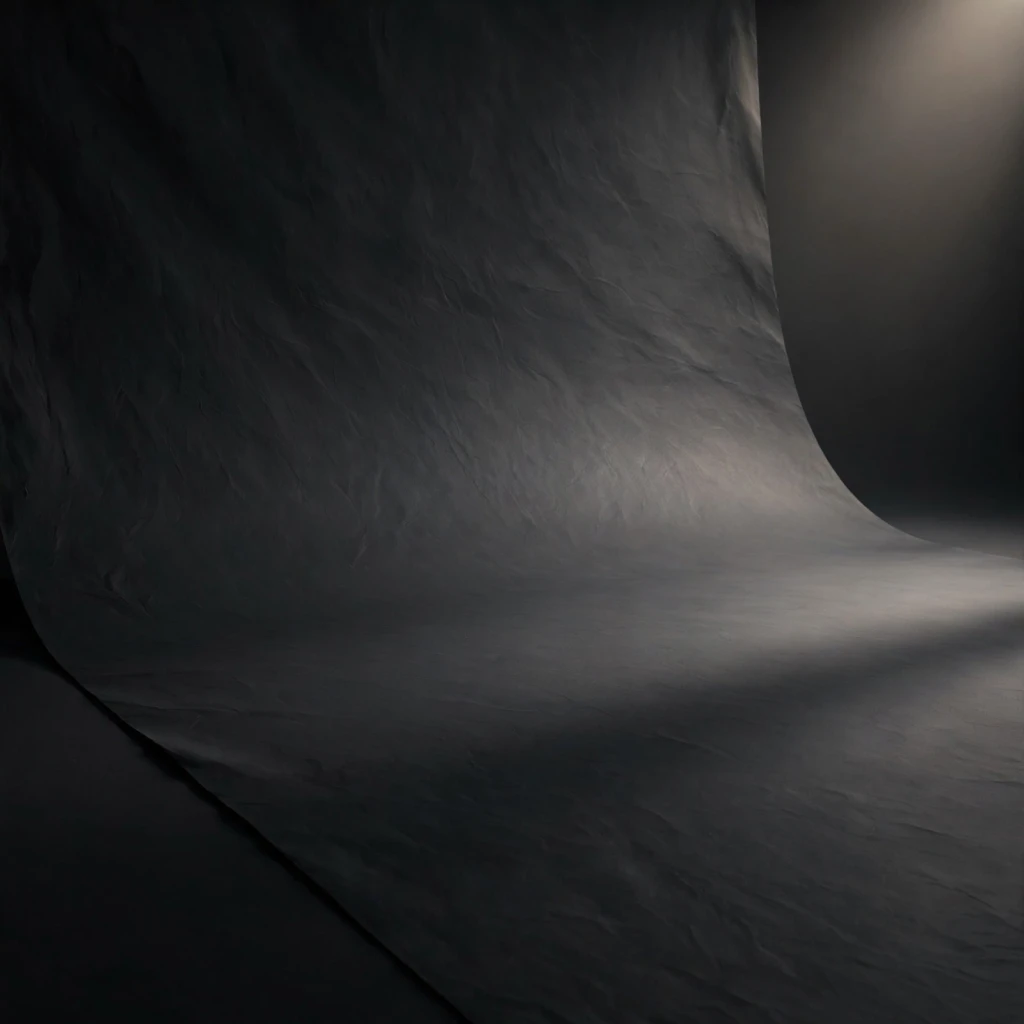
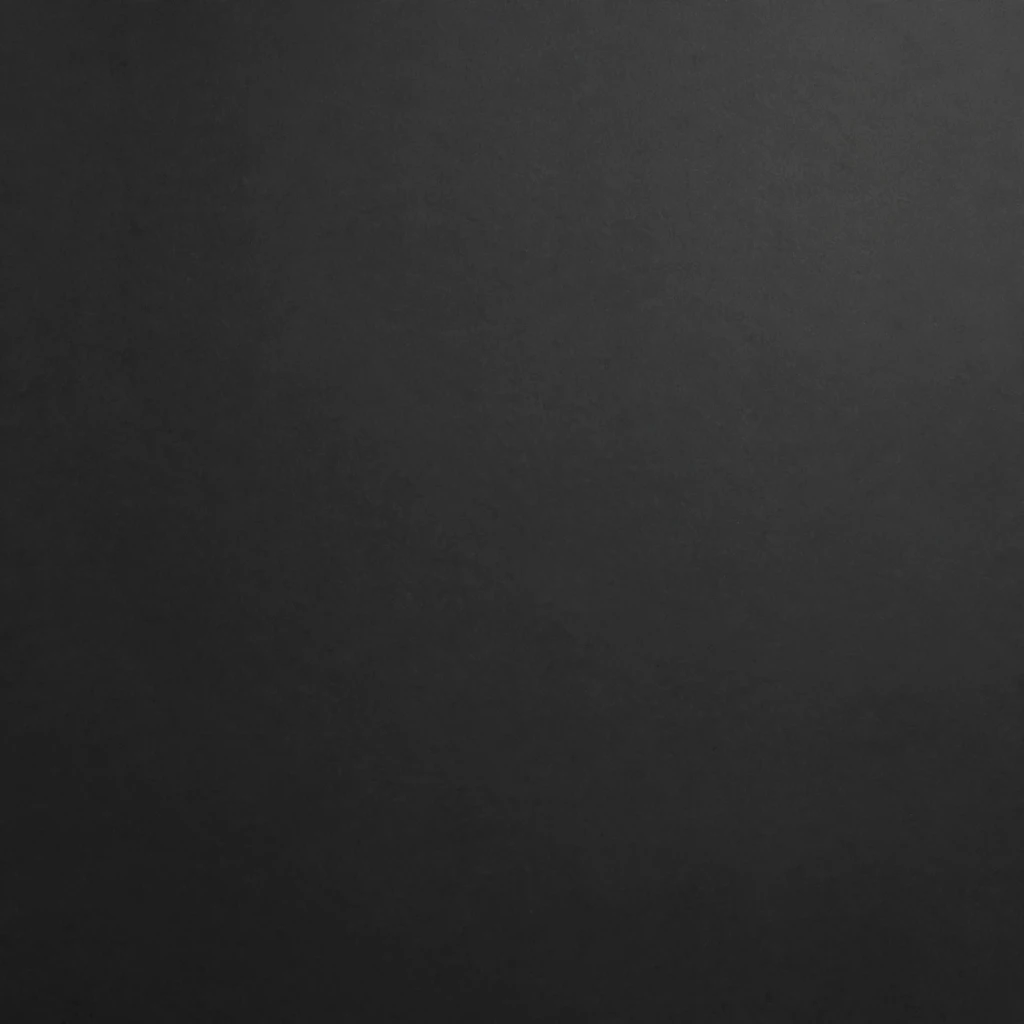
feat: refine the scene presets for clean backdrops and wall scenes
Make the four studio backdrops straight-on, flat and shadow-free; replace
the linen bed with a packaged sheet set with a blank logo area; add three
backyard wall facades for hanging products without a lamp. The scene pack and
catalog are now 33 entries across six categories.

Generated and reviewed 9 scene images through the lab ($0.09). Verified:
typecheck, eslint, library-data unit tests, scenes/scene-reference E2E, and
the serial journey (11/11) with refreshed Scenes screenshots.

diff --git a/src/shared/scene-presets.ts b/src/shared/scene-presets.ts
@@ -21,9 +21,10 @@ export const BUNDLED_SCENE_CATEGORIES: readonly string[] = [
 ]
 
 /**
- * Clean, product-free scene photos included with Moss as starting points: 30
- * settings across six categories. A scene supplies the setting, light and props
- * for another image; its subject is never copied. The matching generation
+ * Clean scene photos included with Moss as starting points: 33 settings across
+ * six categories. Most are product-free; the packaged sheet set is a product
+ * mock-up with a blank label area. A scene supplies the setting, light and
+ * props for another image; its subject is never copied. The matching generation
  * prompts live in scripts/lab/scene-pack.mjs; keep ids, names and categories in
  * sync with it (the unit test checks that). The images are
  * resources/scenes/<id>.webp with a 480x480 <id>-thumb.webp.
@@ -33,25 +34,25 @@ export const BUNDLED_SCENE_PRESETS: readonly BundledScenePreset[] = [
     id: 'white-seamless',
     name: 'White seamless studio',
     category: 'Studio backdrops',
-    blurb: 'A bright white sweep for any product.'
+    blurb: 'A flat white backdrop for any product.'
   },
   {
     id: 'warm-grey-sweep',
     name: 'Warm grey studio',
     category: 'Studio backdrops',
-    blurb: 'A soft warm-grey backdrop for neutral products.'
+    blurb: 'A flat warm-grey backdrop for neutral products.'
   },
   {
     id: 'blush-paper',
     name: 'Blush paper backdrop',
     category: 'Studio backdrops',
-    blurb: 'Pale blush paper for beauty and gifts.'
+    blurb: 'A flat blush backdrop for beauty and gifts.'
   },
   {
     id: 'charcoal-sweep',
     name: 'Charcoal studio',
     category: 'Studio backdrops',
-    blurb: 'Deep charcoal for jewelry, glassware and premium packaging.'
+    blurb: 'A flat charcoal backdrop for jewelry and glassware.'
   },
   {
     id: 'stone-plinth',
@@ -66,10 +67,10 @@ export const BUNDLED_SCENE_PRESETS: readonly BundledScenePreset[] = [
     blurb: 'Warm wood, a lamp and soft window light for homeware and candles.'
   },
   {
-    id: 'linen-bed',
-    name: 'Linen bed',
+    id: 'packaged-sheet-set',
+    name: 'Packaged sheet set',
     category: 'Lifestyle rooms',
-    blurb: 'Rumpled linen and morning light for textiles and gifts.'
+    blurb: 'A folded sheet set in a clear case with a blank label for a logo.'
   },
   {
     id: 'living-room-console',
@@ -178,6 +179,24 @@ export const BUNDLED_SCENE_PRESETS: readonly BundledScenePreset[] = [
     name: 'Sunlit balcony',
     category: 'Outdoor spaces',
     blurb: 'A morning balcony for drinkware, plants and small homeware.'
+  },
+  {
+    id: 'backyard-wall',
+    name: 'Backyard wall',
+    category: 'Outdoor spaces',
+    blurb: 'A sunlit side wall for a hanging lamp or planter.'
+  },
+  {
+    id: 'garden-wall',
+    name: 'Garden wall',
+    category: 'Outdoor spaces',
+    blurb: 'A stone garden wall with an empty bracket space.'
+  },
+  {
+    id: 'brick-wall-nook',
+    name: 'Brick wall nook',
+    category: 'Outdoor spaces',
+    blurb: 'A warm brick wall for an outdoor lamp.'
   },
   {
     id: 'gift-wrapping-table',

diff --git a/tests/e2e/scenes.spec.ts b/tests/e2e/scenes.spec.ts
@@ -45,11 +45,15 @@ test('a preset scene opens the generator and is sent with the product', async ()
 
     await page.getByRole('link', { name: 'Scenes', exact: true }).click()
     await expect(page.getByRole('heading', { name: 'Scenes', exact: true })).toBeVisible()
-    await expect(page.getByText('30 starter scenes · 0 of yours')).toBeVisible()
+    await expect(page.getByText('33 starter scenes · 0 of yours')).toBeVisible()
     await assertNoSeriousA11y(page, 'scenes')
     await page.getByRole('button', { name: 'Lifestyle rooms', exact: true }).click()
     await expect(page.getByRole('button', { name: 'Open Oak side table' })).toBeVisible()
     await expect(page.getByRole('button', { name: 'Open White seamless studio' })).toHaveCount(0)
+    await page.getByRole('button', { name: 'Outdoor spaces', exact: true }).click()
+    await expect(page.getByRole('button', { name: 'Open Backyard wall' })).toBeVisible()
+    await expect(page.getByRole('button', { name: 'Open Garden wall' })).toBeVisible()
+    await expect(page.getByRole('button', { name: 'Open Brick wall nook' })).toBeVisible()
     await page.getByRole('button', { name: 'All', exact: true }).click()
     await expect(page.getByRole('button', { name: 'Open White seamless studio' })).toBeVisible()
 
@@ -118,7 +122,7 @@ test('the scene picker has three tabs and a saved scene can be renamed and delet
     await expect(page.getByText('Sunlit home', { exact: true }).first()).toBeVisible()
 
     await page.getByRole('link', { name: 'Scenes', exact: true }).click()
-    await expect(page.getByText('30 starter scenes · 1 of yours')).toBeVisible()
+    await expect(page.getByText('33 starter scenes · 1 of yours')).toBeVisible()
     const card = page.locator('.card').filter({ has: page.getByRole('button', { name: 'Open Sunlit home' }) })
     await card.hover()
     await page.getByRole('button', { name: 'Actions for Sunlit home' }).click()
@@ -131,7 +135,7 @@ test('the scene picker has three tabs and a saved scene can be renamed and delet
     await page.getByRole('button', { name: 'Actions for Sunlit room' }).click()
     await page.getByRole('menuitem', { name: 'Delete' }).click()
     await page.getByRole('dialog').getByRole('button', { name: 'Delete Scene' }).click()
-    await expect(page.getByText('30 starter scenes · 0 of yours')).toBeVisible()
+    await expect(page.getByText('33 starter scenes · 0 of yours')).toBeVisible()
   } finally {
     await app.close().catch(() => undefined)
     fs.rmSync(userData, { recursive: true, force: true })

diff --git a/tests/unit/library-data.test.ts b/tests/unit/library-data.test.ts
@@ -145,9 +145,9 @@ describe('starters and people', () => {
 })
 
 describe('bundled scene presets', () => {
-  it('ships thirty product-free scenes across six categories', () => {
-    expect(BUNDLED_SCENE_PRESETS).toHaveLength(30)
-    expect(new Set(BUNDLED_SCENE_PRESETS.map((scene) => scene.id)).size).toBe(30)
+  it('ships thirty-three scenes across six categories', () => {
+    expect(BUNDLED_SCENE_PRESETS).toHaveLength(33)
+    expect(new Set(BUNDLED_SCENE_PRESETS.map((scene) => scene.id)).size).toBe(33)
     expect(BUNDLED_SCENE_SIZE).toBe(1024)
     expect(BUNDLED_SCENE_CATEGORIES).toHaveLength(6)
     for (const scene of BUNDLED_SCENE_PRESETS) {
@@ -157,8 +157,9 @@ describe('bundled scene presets', () => {
       expect(isBundledScenePreset(scene.id)).toBe(true)
     }
     for (const category of BUNDLED_SCENE_CATEGORIES) {
-      expect(BUNDLED_SCENE_PRESETS.filter((scene) => scene.category === category)).toHaveLength(5)
+      expect(BUNDLED_SCENE_PRESETS.filter((scene) => scene.category === category).length, category).toBeGreaterThanOrEqual(5)
     }
+    expect(BUNDLED_SCENE_PRESETS.filter((scene) => scene.category === 'Outdoor spaces')).toHaveLength(8)
     expect(isBundledScenePreset('not-a-bundled-scene')).toBe(false)
   })
 
@@ -178,13 +179,17 @@ describe('bundled scene presets', () => {
       expect(entry?.name).toBe(scene.name)
       expect(entry?.category).toBe(scene.category)
       expect(entry?.prompt.length ?? 0).toBeGreaterThan(0)
-      expect(entry?.prompt).toContain('no product in the frame')
+      if (scene.id === 'packaged-sheet-set') {
+        expect(entry?.prompt).toContain('blank')
+      } else {
+        expect(entry?.prompt).toContain('no product in the frame')
+      }
     }
   })
 
   it('maps bundled scenes to resources without a saved row', () => {
     const cards = bundledSceneCards()
-    expect(cards).toHaveLength(30)
+    expect(cards).toHaveLength(33)
     for (const card of cards) {
       expect(card.source).toBe('bundled')
       expect(card.width).toBe(1024)

diff --git a/docs/lab.md b/docs/lab.md
@@ -75,7 +75,7 @@ Put a real product photo in `lab/sources/` and pass its path to `edit` or `creat
 
 ## Scene pack
 
-`npm run lab -- scenes` generates the 30 included preset scenes from `scripts/lab/scene-pack.mjs` (30 images, $0.30) into `lab/scenes/`. Each request is a square generation of a setting with an empty surface and no product subject; the lab writes a 1024×1024 WebP and a 480×480 `<id>-thumb.webp`. `--ids` and `--force` narrow or replace the batch. Generate in batches of 8–12 and review each run's `sheet.webp` for a product, people, readable text or logos, a clear empty surface and the right category mood; regenerate with a stronger no-product clause or use a reserve scene if one keeps a subject. Copy only approved files into `resources/scenes/`; `src/shared/scene-presets.ts` holds the catalog and the asset test checks every full and thumb file. The unit test also fails if the pack and the catalog disagree on an id, name or category. Scenes are reference photos, not the eight prompt-based scene looks in Quick Looks.
+`npm run lab -- scenes` generates the 33 included preset scenes from `scripts/lab/scene-pack.mjs` (33 images, $0.33) into `lab/scenes/`. Most requests are a square generation of a setting with an empty surface and no product subject; the lab writes a 1024×1024 WebP and a 480×480 `<id>-thumb.webp`. The four studio backdrops must be straight-on, flat, and completely free of a visible backdrop edge, roll, curve or shadow. The packaged sheet set is the one deliberate product-style scene: a clear case with a blank label area and no writing. The three Outdoor spaces wall facades must show the empty wall where a lamp would hang and must not include the lamp. `--ids` and `--force` narrow or replace the batch. Generate in batches of 8–12 and review each run's `sheet.webp` for a product, people, readable text or logos, a clear empty surface and the right category mood; regenerate with a stronger no-product clause or use a reserve scene if one keeps a subject. Copy only approved files into `resources/scenes/`; `src/shared/scene-presets.ts` holds the catalog and the asset test checks every full and thumb file. The unit test also fails if the pack and the catalog disagree on an id, name or category. Scenes are reference photos, not the eight prompt-based scene looks in Quick Looks.
 
 ## Example images
 

diff --git a/DECISIONS.md b/DECISIONS.md
@@ -335,3 +335,7 @@ Each entry records a choice that was not fixed by the brief, or a place where th
 ## Starter people catalog
 
 141. **The starter cast is 50 people, evenly spread across six age bands, and the starter grid pages 20 at a time.** The original 24 people and their ids stay unchanged; 26 new synthetic people bring each band to 8–9 (20s 8, 30s 9, 40s 8, 50s 8, 60s 9, 70s 8). Every bundled person keeps the full-body reference, square portrait and four studio looks; the new references and looks were generated through the lab and reviewed for identity, framing and a plain studio. The lab people pack and the catalog are checked against each other by the unit suite, and the People page pages the starter grid 20 at a time so 50 cards do not make one long scroll. User-added people are unchanged.
+
+## Scene revisions
+
+142. **Studio backdrops are straight-on and shadow-free, the linen bed is replaced by a packaged sheet set, and Outdoor spaces adds three wall facades.** The four studio backdrop presets are flat, evenly lit front views with no visible backdrop edge, roll, curve or shadow so a product image can be placed on them. The packaged sheet set is the one deliberate product-style scene, with a clear case and a blank label area for a seller logo. The three wall facades are side portions of backyard walls with an empty space for a hanging lamp and no lamp in the frame. The scene pack and catalog stay in sync, and the scene page counts and screenshots are updated.

diff --git a/docs/manual-test.md b/docs/manual-test.md
@@ -70,7 +70,8 @@ On this headless Linux host, run Playwright through Xvfb (`xvfb-run -a npx playw
 
 ## Scenes
 
-- Scenes shows “30 starter scenes · N of yours,” search, sort, category pills, and pagination. The starter scenes are filtered by six categories; Your Scenes pages separately.
+- Scenes shows “33 starter scenes · N of yours,” search, sort, category pills, and pagination. The starter scenes are filtered by six categories; Your Scenes pages separately.
+- The four studio backdrops are straight-on, flat, and shadow-free, with no visible backdrop edge; the packaged sheet set has a clear case and a blank label area; the three Outdoor spaces wall facades have an empty space for a hanging lamp and no lamp in the frame.
 - Add Scene Photo saves a photo with a name; user scenes can be renamed or deleted. Opening a scene shows the full image and Make an Image with this Scene, which opens the Image Generator with the scene chip ready for a product photo.
 - Choose a Scene in the Image Editor or Image Generator opens a dialog with Presets, Your Scenes, and Projects. Presets and Your Scenes use the scene reference path; Projects keeps the existing ready-image scene reference. The setting and light are borrowed; the subject is never copied.
 - The Scenes page and the scene picker are included in the axe pass.

diff --git a/README.md b/README.md
@@ -40,7 +40,7 @@ A product page keeps Products active in the sidebar, adds a Products back button
 
 ### Scenes
 
-Scenes are reusable settings: the surface, background, light, and props for a photo, without a product of their own. The Scenes page has 30 starter scenes in six categories — studio backdrops, lifestyle rooms, kitchen and table, bath and spa, outdoor spaces, and seasonal sets — and you can add your own scene photo on the same page.
+Scenes are reusable settings: the surface, background, light, and props for a photo. Most are without a product of their own. The Scenes page has 33 starter scenes in six categories — studio backdrops, lifestyle rooms, kitchen and table, bath and spa, outdoor spaces, and seasonal sets — and you can add your own scene photo on the same page.
 
 The Image Editor and Image Generator both have **Choose a Scene**. The dialog has three tabs: **Presets** for the bundled scenes, **Your Scenes** for photos you added, and **Projects** for any ready image already in your library. Scenes are borrowed for their setting and light; their subject is never copied.
 
